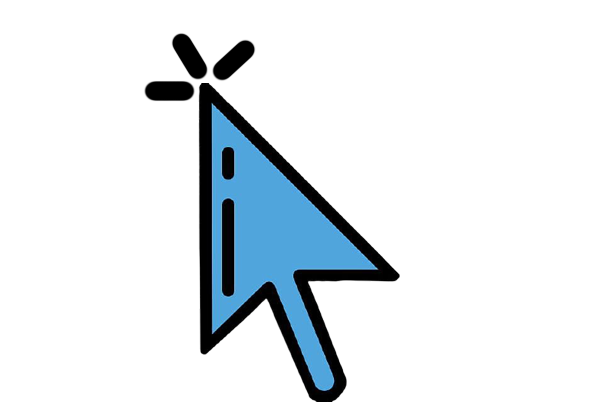
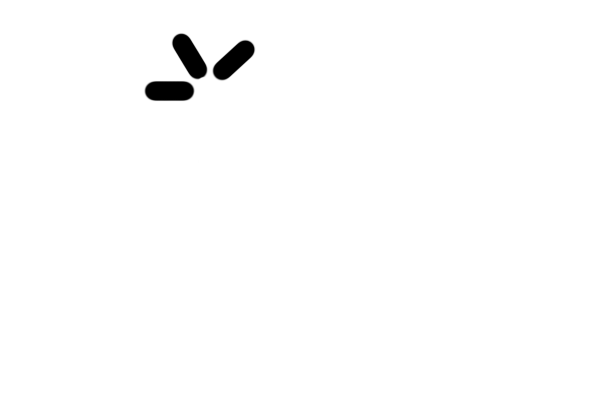
Меню Паузы

Changed region(s): [[0.3311, 0.1871, 0.6923, 0.9664]]

diff --git a/main.py b/main.py
@@ -118,7 +118,12 @@ class Clicker:
 
 
 class Button:
+    """Класс кнопки"""
+
     def __init__(self, form, position, cursor_pos=None, text=('', None, None), click_event=False):
+        """Инициализация и отрисовка кнопки на форме"""
+        # self, форма на которой рисуется кнопка, координаты верхней левой и правой нижней точек
+        # кнопки,
         self.x, self.y, self.width, self.height = position
         self.cursor_pos = cursor_pos
         self.click_event = click_event
@@ -131,12 +136,6 @@ class Button:
         self.coeff_x, self.coeff_y = 0, 0
 
         self.my_eventFilter()
-        # if self.check_button_enter(self.cursor_pos, (self.x, self.y,
-        #                                              self.x + self.width,
-        #                                              self.y + self.height)):
-        #     self.coeff_x = int(WINDOW_WIDTH // 54.64)
-        #     self.coeff_y = int(WINDOW_HEIGHT // 76.8)
-        #     self.font_size = self.font_size + self.coeff_x // 5
         pygame.draw.rect(self.form,
                          self.active_clr,
                          (self.x, self.y,
@@ -156,6 +155,7 @@ class Button:
                                 text[2] - self.coeff_y // 5 * 2))
 
     def my_eventFilter(self):
+        """EventFilter, в котором происходит обработка событий"""
         if self.check_button_enter(self.cursor_pos, (self.x, self.y,
                                                      self.x + self.width,
                                                      self.y + self.height)):
@@ -280,6 +280,7 @@ if __name__ == '__main__':
     x, y = None, None
     # image = pygame.image.load("Skins\cursor_green.png")
     image = pygame.image.load('Skins\cursor_blue.png')
+    image2 = False
     pygame.mouse.set_visible(False)
     cursor_on_btn = False
     click = False
@@ -294,7 +295,7 @@ if __name__ == '__main__':
                     cursor_on_btn = True
 
             if event.type == pygame.MOUSEBUTTONDOWN:
-                image = pygame.image.load("Skins\clicked_cursor_blue.png")
+                image2 = pygame.image.load("Skins\clicked_cursor_blue.png")
                 click = False
                 if clicker.is_paused:
                     click = True
@@ -302,6 +303,7 @@ if __name__ == '__main__':
             if event.type == pygame.MOUSEBUTTONUP:
                 # image = pygame.image.load("Skins\cursor_green.png")
                 image = pygame.image.load("Skins\cursor_blue.png")
+                image2 = False
             if clicker.is_paused:
                 if event.type == pygame.KEYDOWN:
                     if event.key == pygame.K_p:
@@ -329,7 +331,10 @@ if __name__ == '__main__':
 
         if image:
             image = pygame.transform.scale(image, (WINDOW_WIDTH // 26, WINDOW_HEIGHT // 20))
-        screen.blit(image, (x - WINDOW_WIDTH // 26 // 3, y - WINDOW_HEIGHT // 20 // 3))
+            screen.blit(image, (x - WINDOW_WIDTH // 26 // 3, y - WINDOW_HEIGHT // 20 // 3))
+        if image2:
+            image2 = pygame.transform.scale(image2, (WINDOW_WIDTH // 26, WINDOW_HEIGHT // 20))
+            screen.blit(image2, (x - WINDOW_WIDTH // 26 // 3, y - WINDOW_HEIGHT // 20 // 3))
 
         pygame.display.flip()
     pygame.quit()
